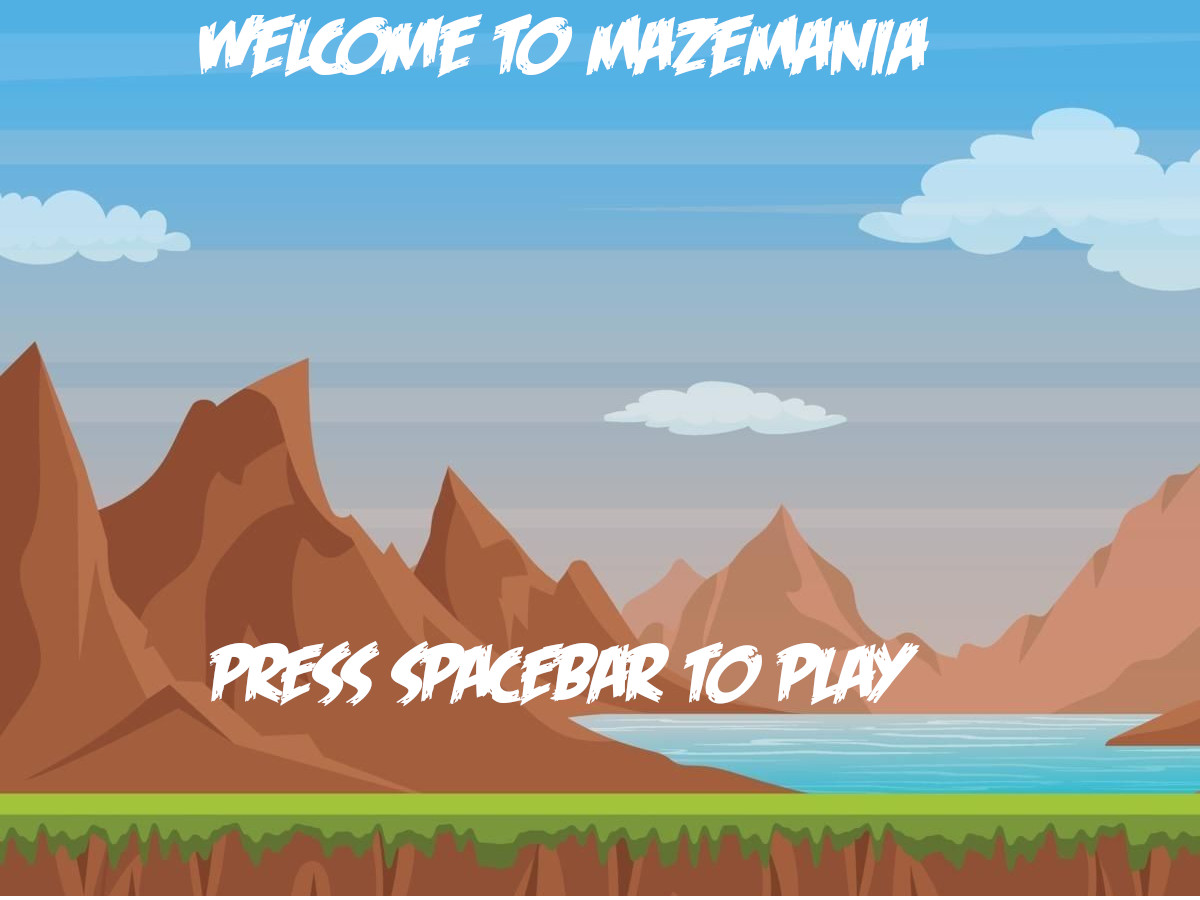
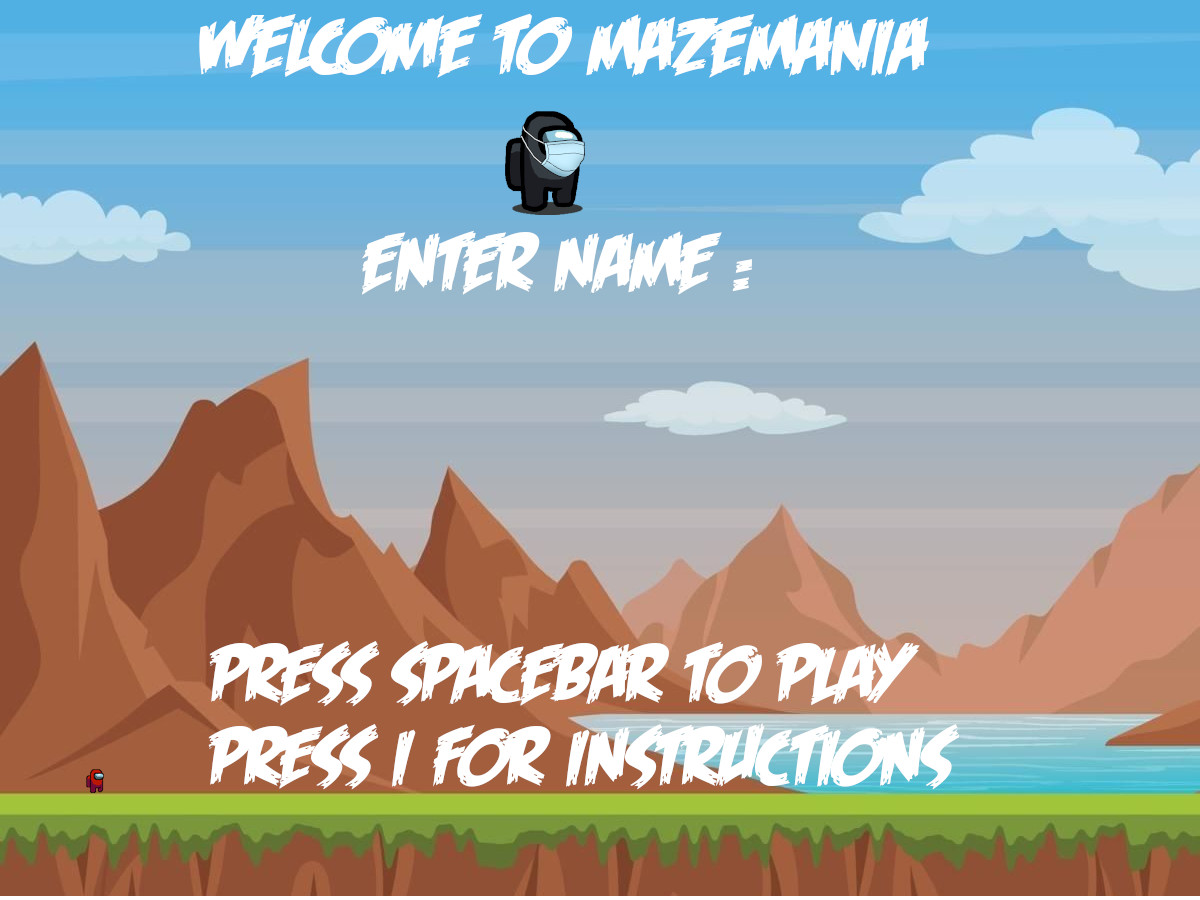
fourteenth

Changed region(s): [[0.1542, 0.8089, 0.8017, 0.8711], [0.2775, 0.1244, 0.6475, 0.3422], [0.0617, 0.84, 0.0925, 0.9022]]

diff --git a/game.cpp b/game.cpp
@@ -172,6 +172,7 @@ LTexture gDotTexture;
 LTexture gTileTexture;
 LTexture gTextTexture;
 LTexture gStartScreen;
+LTexture gInstructionScreen;
 
 TTF_Font *gFont = NULL;
 
@@ -551,6 +552,10 @@ bool loadMedia( Tile* tiles[] , Tile* tiles2[])
 		printf("Failed to load Start screen Texture!\n");
 		success = false;
 	}
+	if(!gInstructionScreen.loadFromFile("Images/instructions.jpg")){
+		printf("Failed to load Start screen Texture!\n");
+		success = false;
+	}
 
 	//Load dot texture
 	if( !gDotTexture.loadFromFile( "Player/playern.png" ) )
@@ -611,6 +616,7 @@ void close( Tile* tiles[], Tile* tiles2[] )
 	//Free loaded images
 	gDotTexture.free();
 	gStartScreen.free();
+	gInstructionScreen.free();
 	gTileTexture.free();
 	Mix_FreeMusic( gMusic );
     gMusic = NULL;
@@ -970,18 +976,21 @@ void play (Tile* tileSet[], Tile* tileSet2[]) {
 }
 
 bool isPlaying = false;
-
+bool isInstructions = false;
 bool isGameQuit = false;
+bool isBackToStart  = false;
 
 void start(){
 	
-	
+	bool wasMusic = false;
 	SDL_Event e;
+	isBackToStart = false;
 	while(1){
 		while( SDL_PollEvent( &e ) != 0 )
 		{
-			if(Mix_PlayingMusic()==0){
+			if(Mix_PlayingMusic()==0 && !wasMusic){
 				Mix_PlayMusic(gMusic, -1);
+				wasMusic = true;
 			}
 			if( e.type == SDL_QUIT )
 			{
@@ -989,14 +998,36 @@ void start(){
 				return;
 			}	
 			if(e.type == SDL_KEYDOWN){
+			
+
 				if(e.key.keysym.sym == SDLK_ESCAPE){
-					isGameQuit = true;
-					return;
+						isGameQuit = true;
+						return;
 				}
+				
 				if(e.key.keysym.sym == SDLK_SPACE){
 					isPlaying = true;
 					return;
 				}
+				
+				if(e.key.keysym.sym == SDLK_i){
+					isInstructions = true;
+					return;
+				}
+				
+				if(e.key.keysym.sym == SDLK_s){
+						if( Mix_PausedMusic() == 1 )
+		                {
+		                    //Resume the music
+		                    Mix_ResumeMusic();
+		                }
+		                //If the music is playing
+		               
+					}
+				}
+			else if(e.key.keysym.sym == SDLK_m){
+				 Mix_HaltMusic();
+				 wasMusic = false;
 			}
 		}
 		
@@ -1014,6 +1045,65 @@ void start(){
 	}
 }
 
+
+void instructions() {
+	bool wasMusic = false;
+	SDL_Event e;
+	
+	while(1)
+	{
+		while( SDL_PollEvent( &e ) != 0 )
+		{
+			if(Mix_PlayingMusic()==0 && !wasMusic){
+				Mix_PlayMusic(gMusic, -1);
+				wasMusic = true;
+			}
+			
+			if( e.type == SDL_QUIT )
+			{
+				isGameQuit = true;
+				return;
+			}
+			if(e.type == SDL_KEYDOWN){
+		
+
+				if(e.key.keysym.sym == SDLK_ESCAPE){
+						isGameQuit = true;
+						return;
+				}
+				
+				if(e.key.keysym.sym == SDLK_BACKSPACE ){
+					isBackToStart = true;
+					return;
+				}
+							
+				if(e.key.keysym.sym == SDLK_s){
+						if( Mix_PausedMusic() == 1 )
+			            {
+			                //Resume the music
+			                Mix_ResumeMusic();
+			            }
+			            //If the music is playing
+			           
+					}
+				}
+			else if(e.key.keysym.sym == SDLK_m){
+				 Mix_HaltMusic();
+				 wasMusic = false;
+			}
+				
+				
+				
+			}
+			
+			SDL_Rect clip = {0,0,1200,904};
+
+			gInstructionScreen.render(0,0, &clip);
+		
+			SDL_RenderPresent( gRenderer );	
+		}
+		
+}
 
 
 
@@ -1037,16 +1127,30 @@ int main( int argc, char* args[] )
 		}
 		else
 		{	
-			start();
+			
+			//Main loop flag
+			
+			
+			while(!isPlaying && !isGameQuit){
+			
+				start();
 
-		
+				if(isInstructions && !isGameQuit && !isPlaying){
+					instructions();
+				}
+			}
+			
+			
 			if(isPlaying && !isGameQuit){
 				play(tileSet, tileSet2);
 			}
+			
+			
 		}
 		
 		//Free resources and close SDL
 		close( tileSet , tileSet2);
+		
 		
 	}
 
